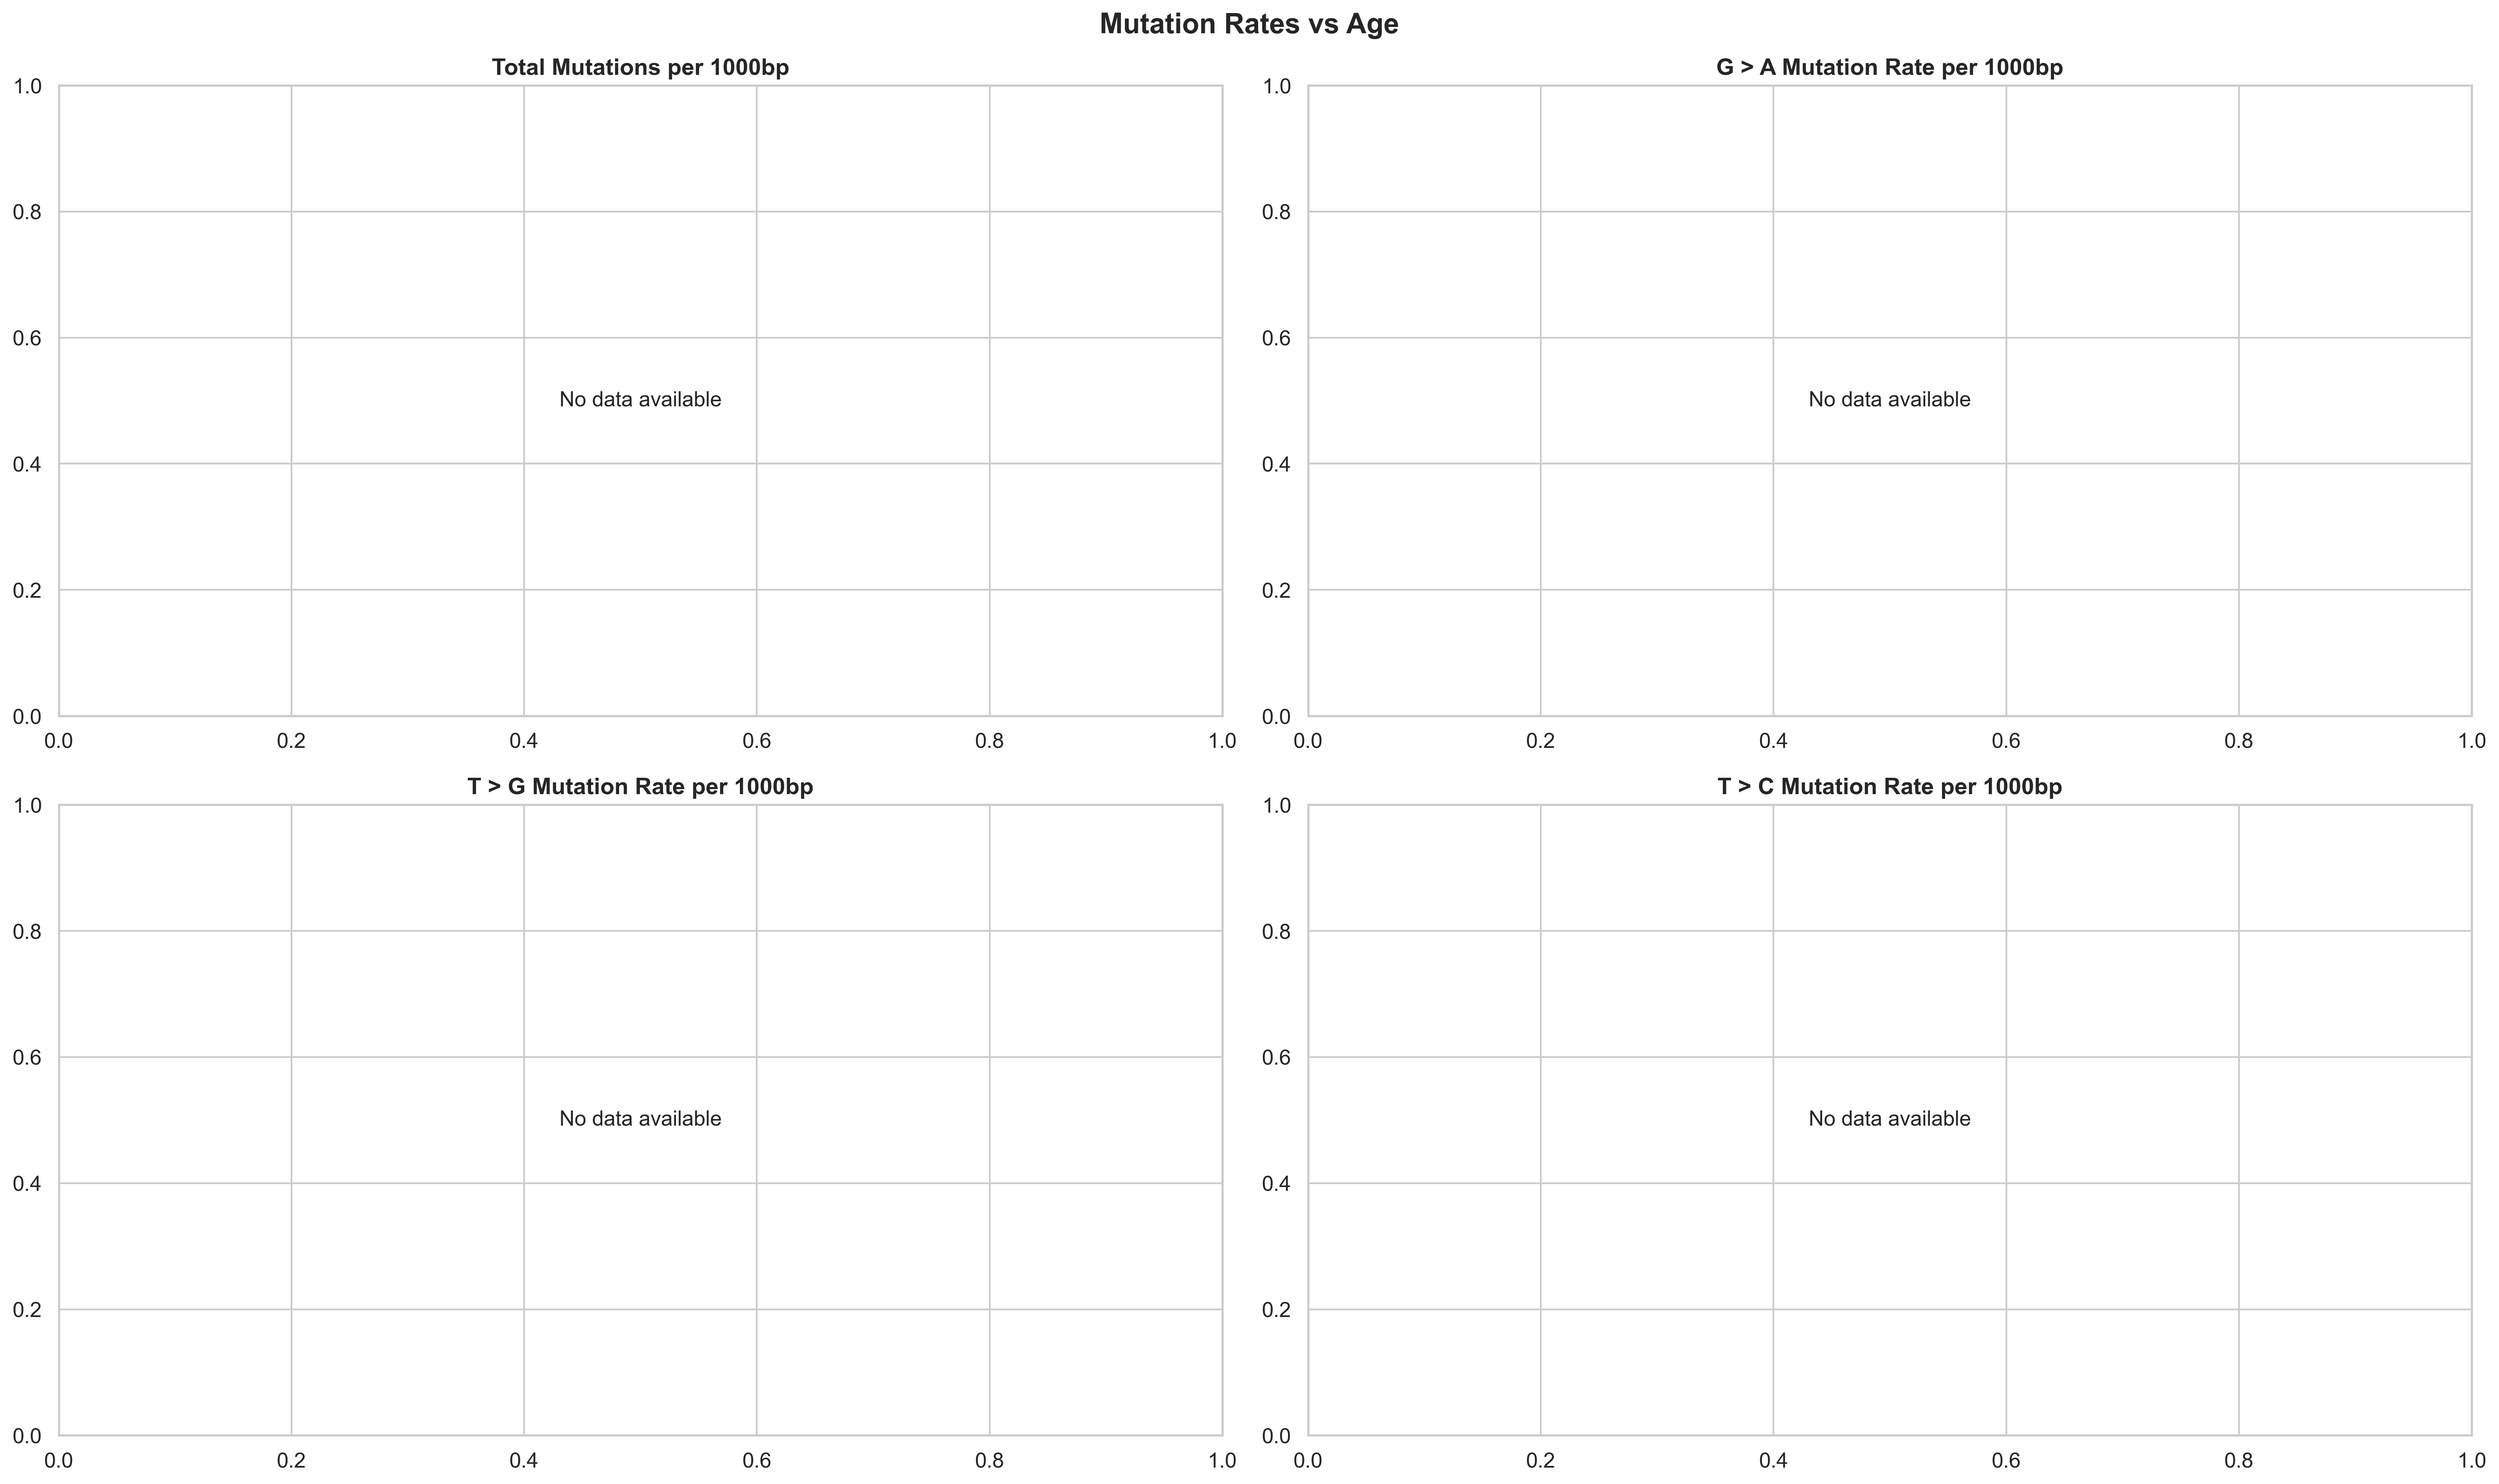
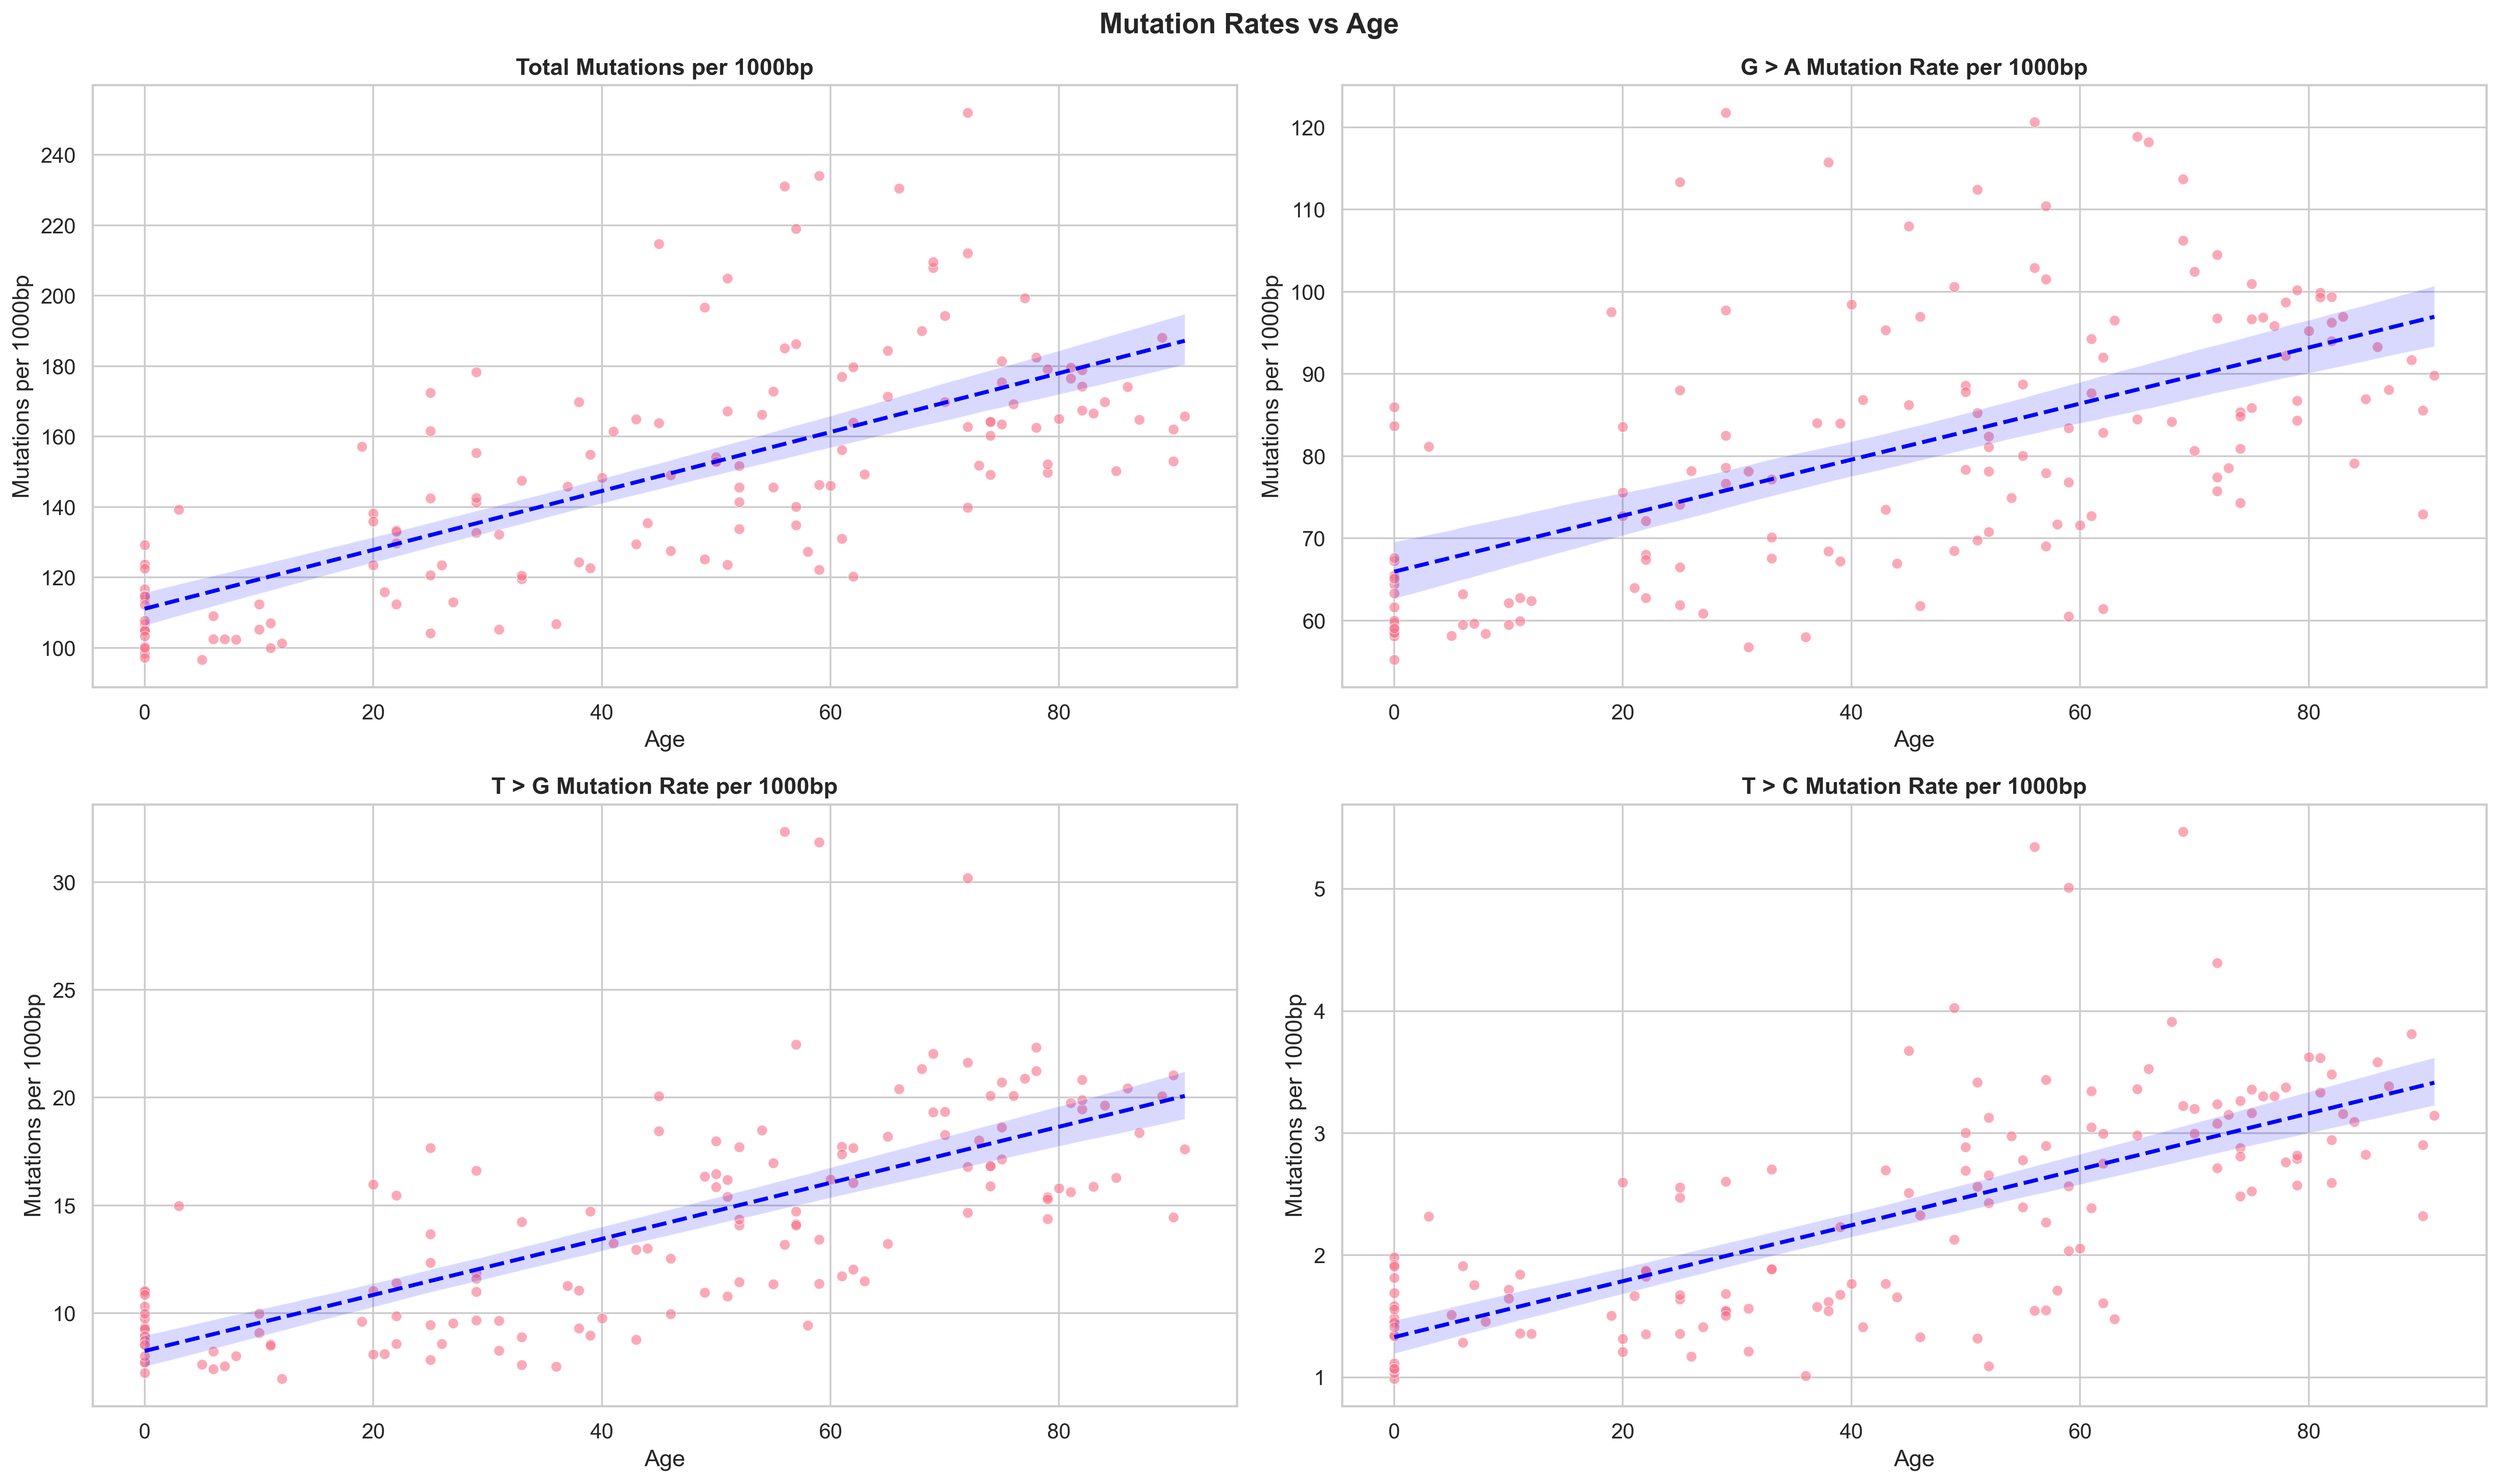
Commented out CSV generation and histogram plotting steps in main.py. Updated spearman_results.csv with new mutation metrics and their correlations. Refreshed binary files to reflect the latest changes.

diff --git a/analysis/main.py b/analysis/main.py
@@ -1,15 +1,15 @@
 import sys
 
 # Step 1: Generate CSV
-print("[1/4] Generating telomere_analysis.csv ...")
-from generate_csv import generate_csv
-data_dir = "/Users/akhilpeddikuppa/FieldLab/GreiderCodeSearch/greider_data_download"
-generate_csv(data_dir)
+# print("[1/4] Generating telomere_analysis.csv ...")
+# from generate_csv import generate_csv
+# data_dir = "/Users/akhilpeddikuppa/FieldLab/GreiderCodeSearch/greider_data_download"
+# generate_csv(data_dir)
 
 # Step 2: Plot histograms
-print("[2/4] Plotting histograms ...")
-from histogram import plot_histograms_main
-plot_histograms_main()
+# print("[2/4] Plotting histograms ...")
+# from histogram import plot_histograms_main
+# plot_histograms_main()
 
 # Step 3: Plot mutational signatures
 print("[3/4] Plotting mutational signatures ...")
